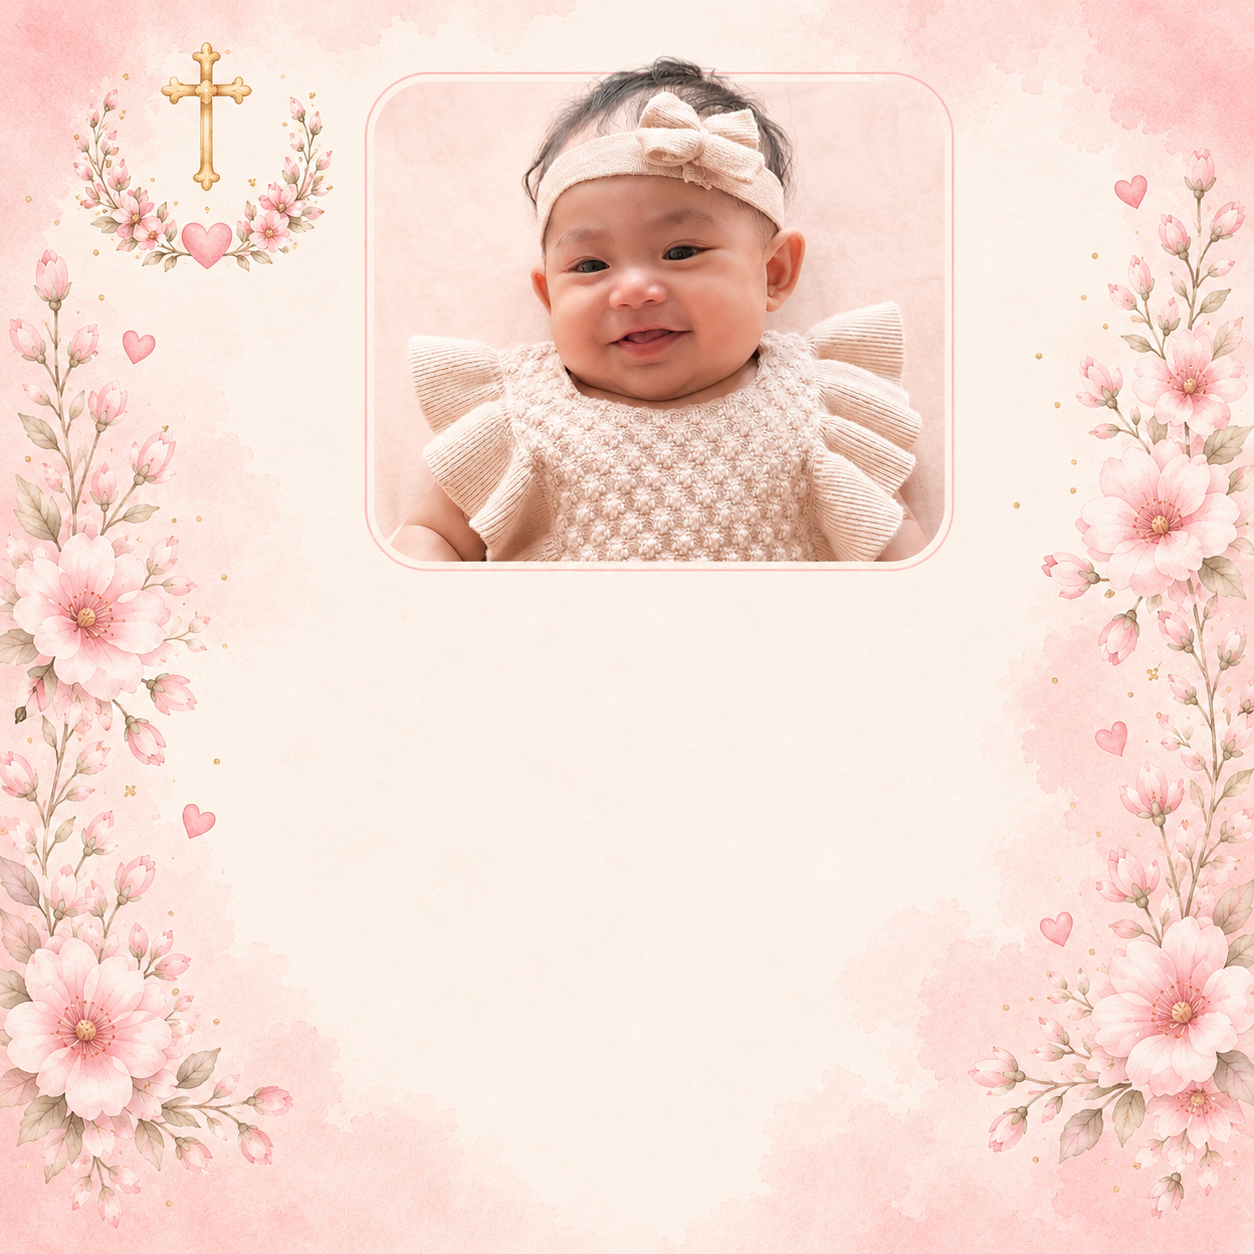
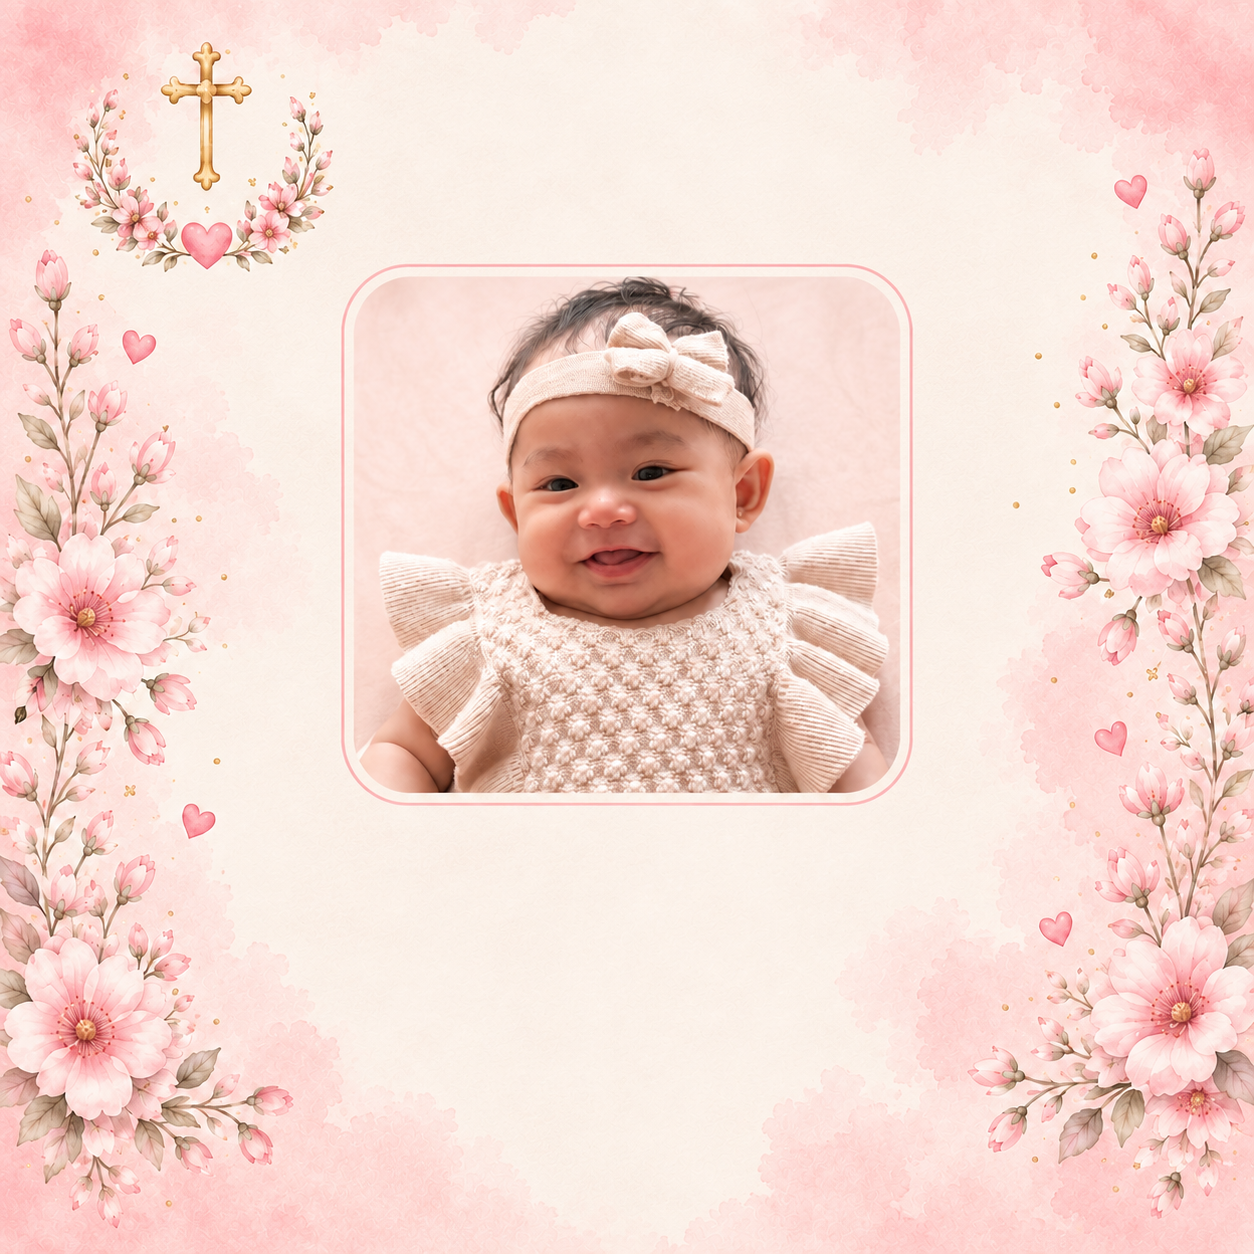
changing details on the invitation

diff --git a/src/components/SpecialInvitation.tsx b/src/components/SpecialInvitation.tsx
@@ -1,29 +1,61 @@
 import { Heart } from "lucide-react";
 import { INVITATION_MESSAGE } from "../constants/eventData";
 
-export default function SpecialInvitation() {
+const HIGHLIGHT_PHRASE = "Gabbie's Ninong/Ninang";
+
+type Props = {
+  onAccept: () => void;
+};
+
+export default function SpecialInvitation({ onAccept }: Props) {
   return (
     <section className="px-4 sm:px-5 pt-6 sm:pt-8 pb-4 sm:pb-6">
       <div className="text-center mb-4 flex items-center justify-center gap-2">
         <Heart className="w-4 h-4 text-blush-500 fill-blush-500 shrink-0" />
-        <h2 className="font-serif italic text-lg sm:text-xl text-blush-600">
+        <h2 className="font-serif italic text-3xl sm:text-4xl text-blush-600">
           {INVITATION_MESSAGE.heading}
         </h2>
         <Heart className="w-4 h-4 text-blush-500 fill-blush-500 shrink-0" />
       </div>
 
       <div className="bg-white/70 backdrop-blur-sm rounded-2xl p-4 sm:p-6 shadow-soft space-y-3 sm:space-y-4">
-        {INVITATION_MESSAGE.paragraphs.map((text, i) => (
-          <p
-            key={i}
-            className={
-              "font-serif text-sm sm:text-base text-blush-700 leading-relaxed text-center " +
-              (i === 0 ? "font-semibold text-blush-600" : "")
-            }
+        {INVITATION_MESSAGE.paragraphs.map((text, i) => {
+          const parts = text.split(HIGHLIGHT_PHRASE);
+          const hasHighlight = parts.length > 1;
+
+          return (
+            <p
+              key={i}
+              className={
+                "font-serif leading-relaxed text-center " +
+                (i === 0
+                  ? "text-lg sm:text-xl font-semibold text-blush-600"
+                  : "text-sm sm:text-base text-blush-700")
+              }
+            >
+              {hasHighlight
+                ? parts.map((part, idx) => (
+                    <span key={idx}>
+                      {part}
+                      {idx < parts.length - 1 && (
+                        <span className="font-bold">{HIGHLIGHT_PHRASE}</span>
+                      )}
+                    </span>
+                  ))
+                : text}
+            </p>
+          );
+        })}
+
+        <div className="pt-2 sm:pt-3">
+          <button
+            onClick={onAccept}
+            className="w-full bg-blush-500 hover:bg-blush-600 text-white font-serif font-semibold py-2.5 sm:py-3 rounded-2xl shadow-soft transition-all hover:scale-[1.02] flex items-center justify-center gap-2 text-sm sm:text-base"
           >
-            {text}
-          </p>
-        ))}
+            <Heart className="w-4 h-4 fill-white" />
+            Accept Invitation
+          </button>
+        </div>
       </div>
     </section>
   );

diff --git a/src/App.tsx b/src/App.tsx
@@ -7,7 +7,9 @@ import Footer from "./components/Footer";
 
 export default function App() {
   const [opened, setOpened] = useState(false);
+  const [accepted, setAccepted] = useState(false);
   const invitationRef = useRef<HTMLDivElement>(null);
+  const rsvpRef = useRef<HTMLDivElement>(null);
 
   function handleToggle() {
     if (!opened) {
@@ -17,8 +19,16 @@ export default function App() {
       }, 100);
     } else {
       setOpened(false);
+      setAccepted(false);
       window.scrollTo({ top: 0, behavior: "smooth" });
     }
+  }
+
+  function handleAccept() {
+    setAccepted(true);
+    setTimeout(() => {
+      rsvpRef.current?.scrollIntoView({ behavior: "smooth" });
+    }, 100);
   }
 
   return (
@@ -28,10 +38,15 @@ export default function App() {
 
         {opened && (
           <div ref={invitationRef} className="animate-fade-in">
-            <SpecialInvitation />
-            <EventDetails />
-            <RSVPForm />
-            <Footer />
+            {!accepted ? (
+              <SpecialInvitation onAccept={handleAccept} />
+            ) : (
+              <div ref={rsvpRef} className="animate-fade-in">
+                <EventDetails />
+                <RSVPForm />
+                <Footer />
+              </div>
+            )}
           </div>
         )}
       </div>
